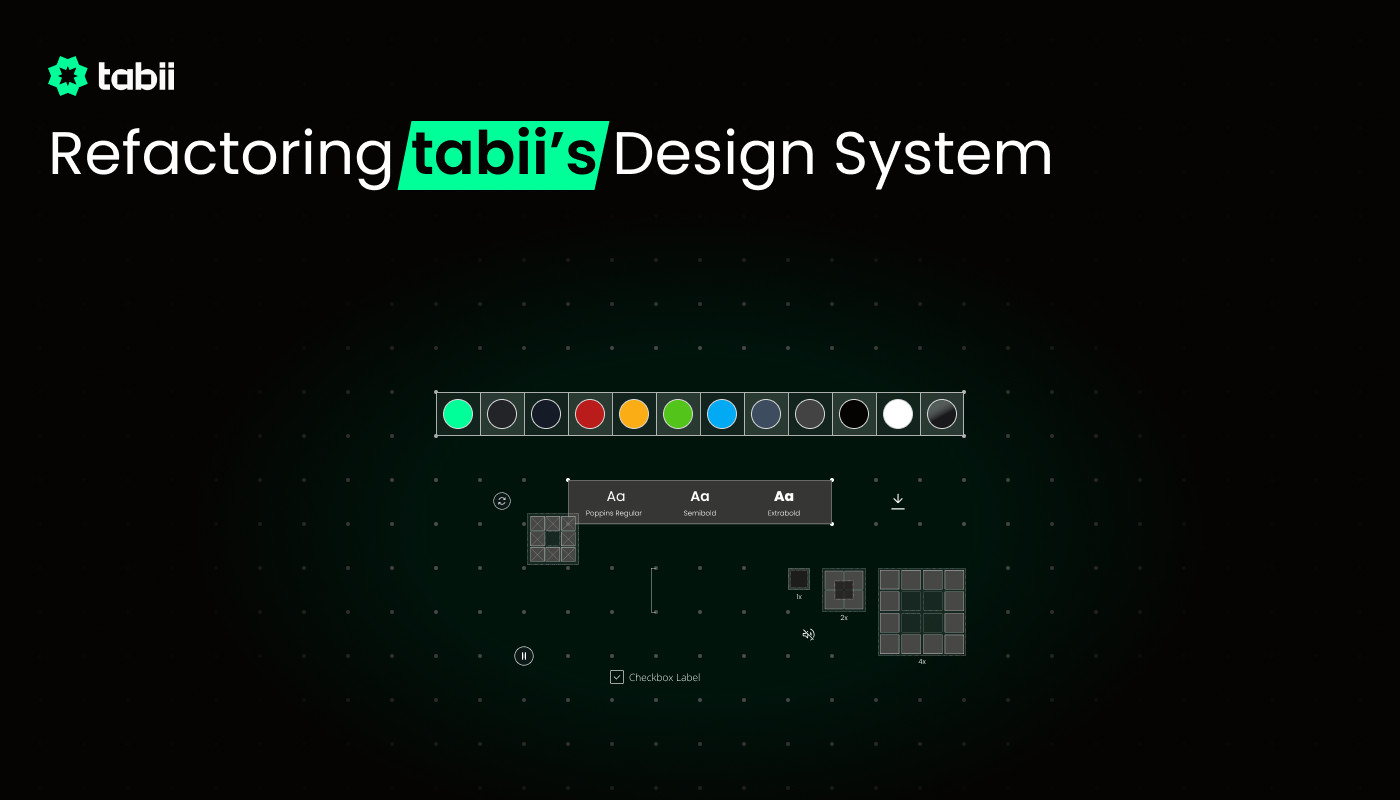
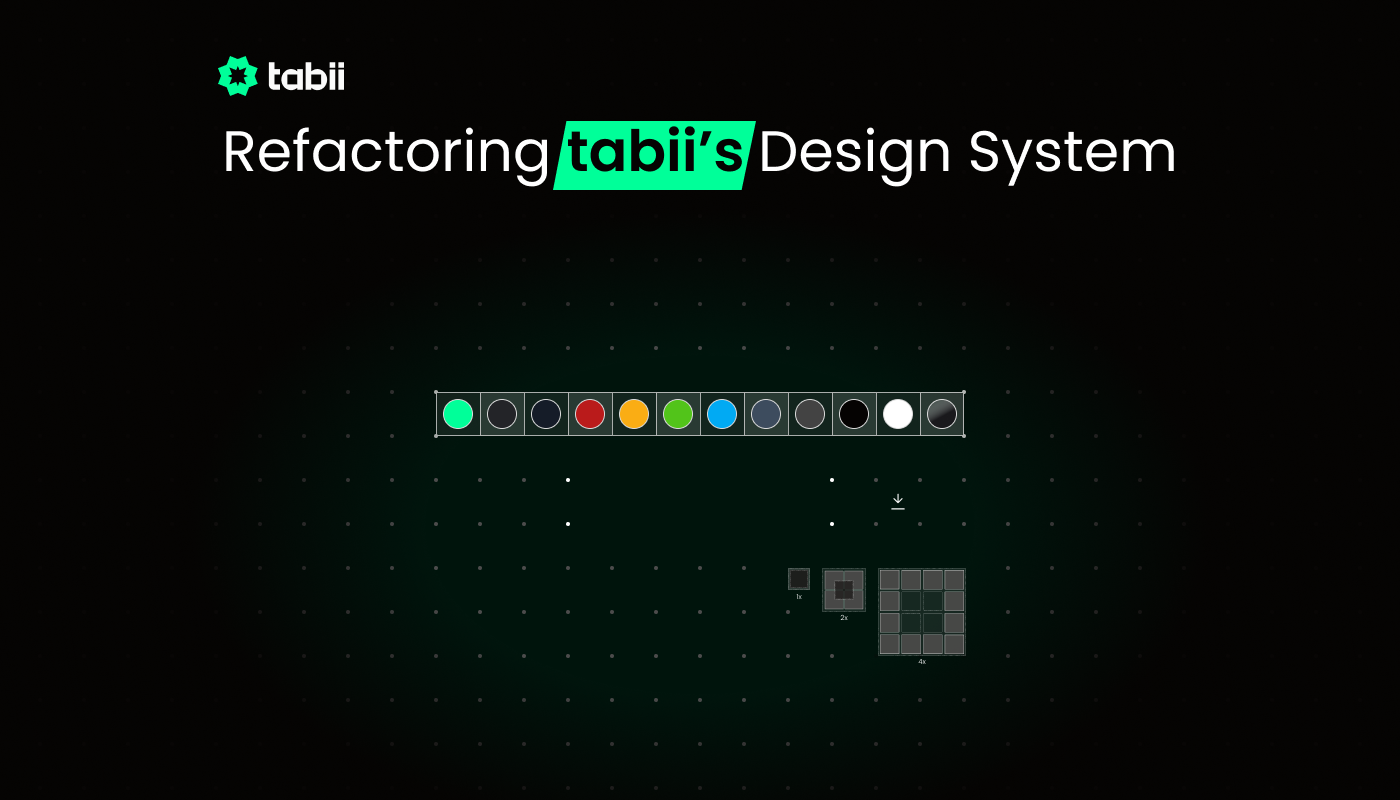
Swap in updated tabii cover image and switch to contain-fit
The title text still extended past the crop-safe zone in the updated
image, so cropping (object-cover) would keep clipping it regardless
of image edits. Switched to object-contain with a matching black
frame background so the full image always renders uncropped, with
seamless letterboxing.

diff --git a/components/ProjectVisual.tsx b/components/ProjectVisual.tsx
@@ -9,13 +9,13 @@ const frameClasses =
 
 function TabiiVisual() {
   return (
-    <MockVisualFrame className={frameClasses}>
+    <MockVisualFrame className={`${frameClasses} bg-black`}>
       <Image
         src={tabiiCover}
         alt="Cover image for the tabii design system refactor"
         fill
         sizes="(min-width: 861px) 50vw, 100vw"
-        className="object-cover object-left"
+        className="object-contain"
       />
     </MockVisualFrame>
   );